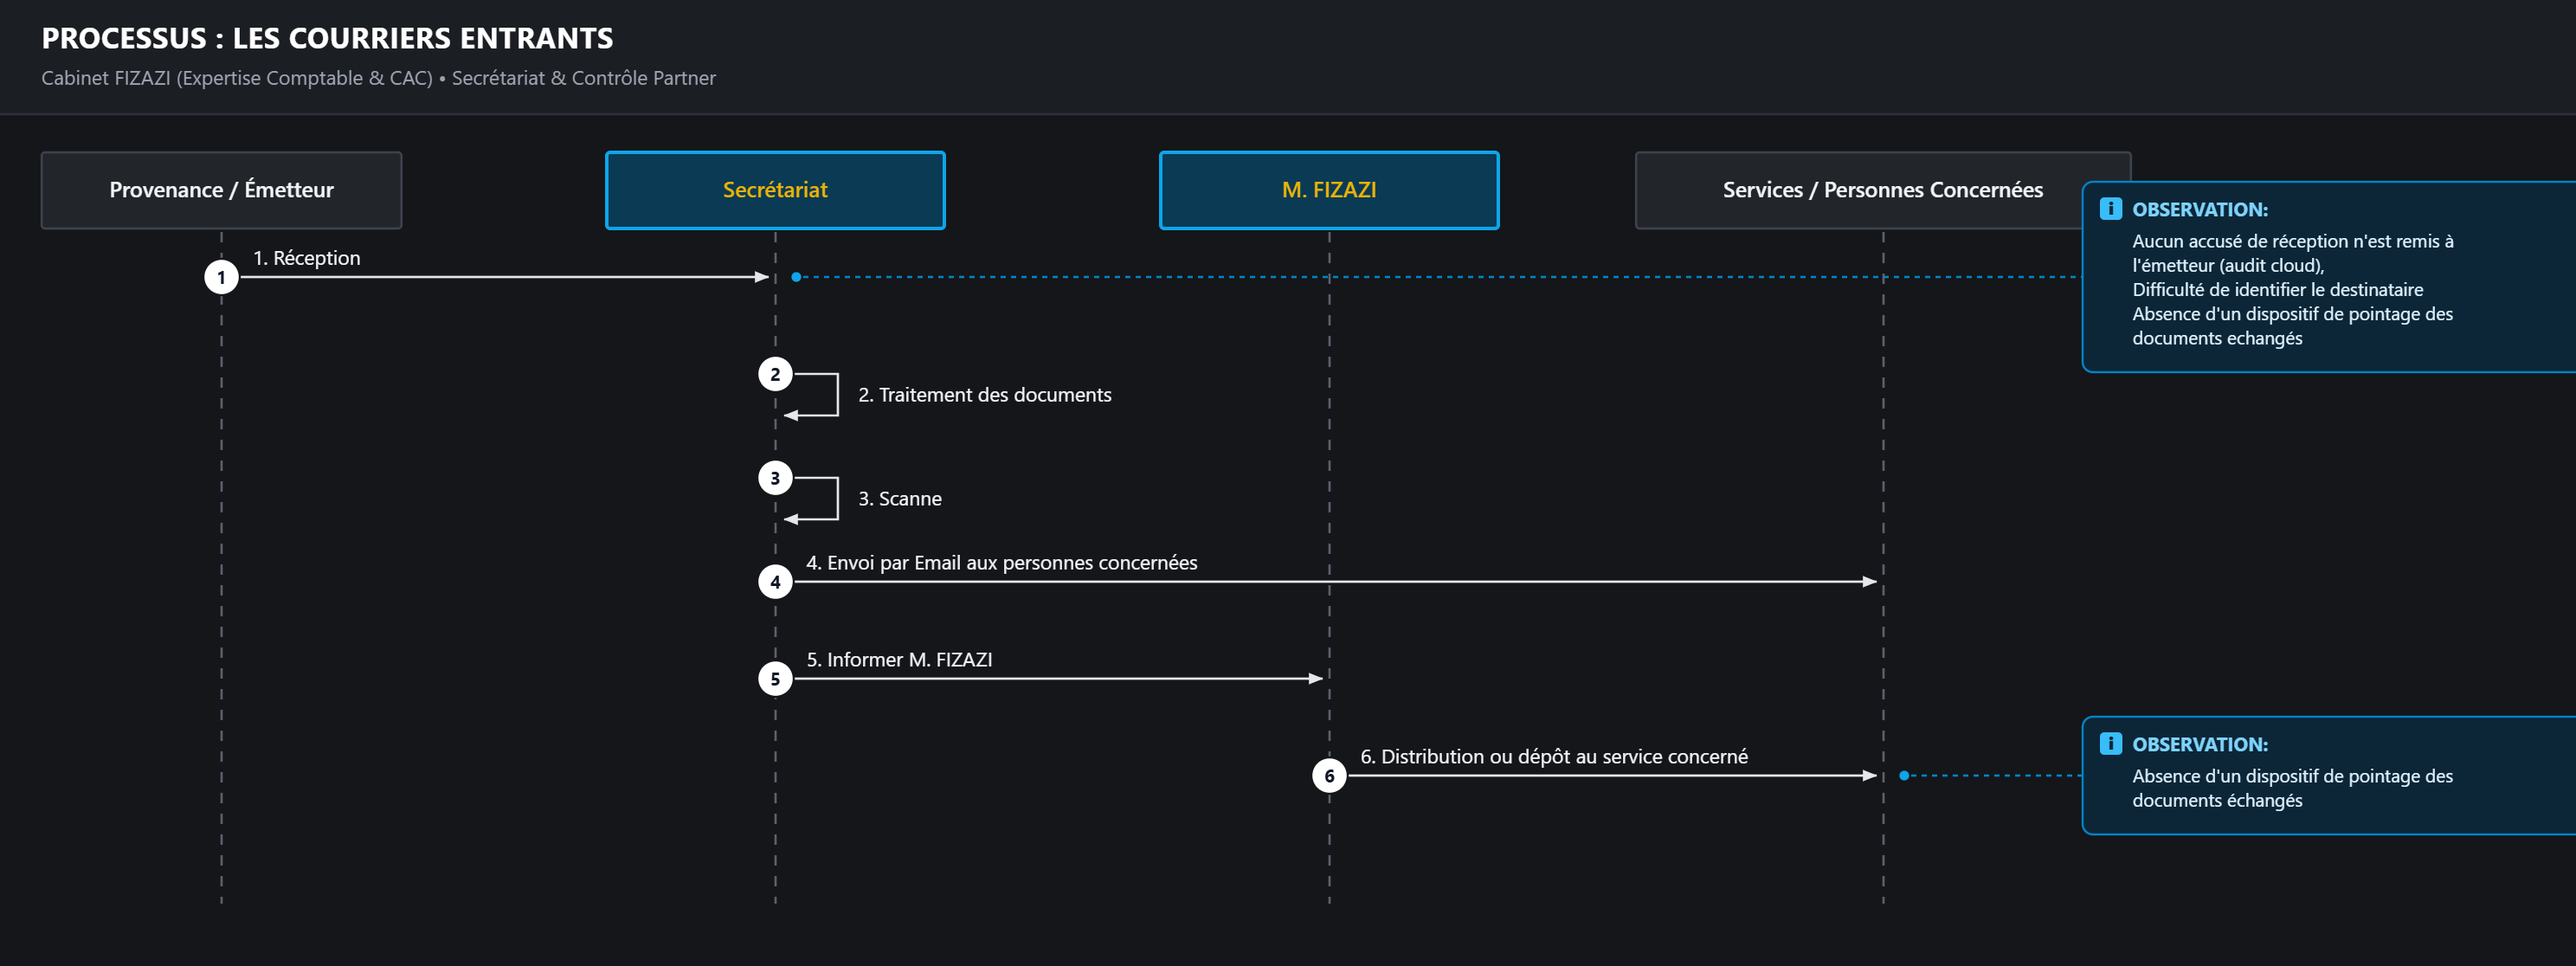
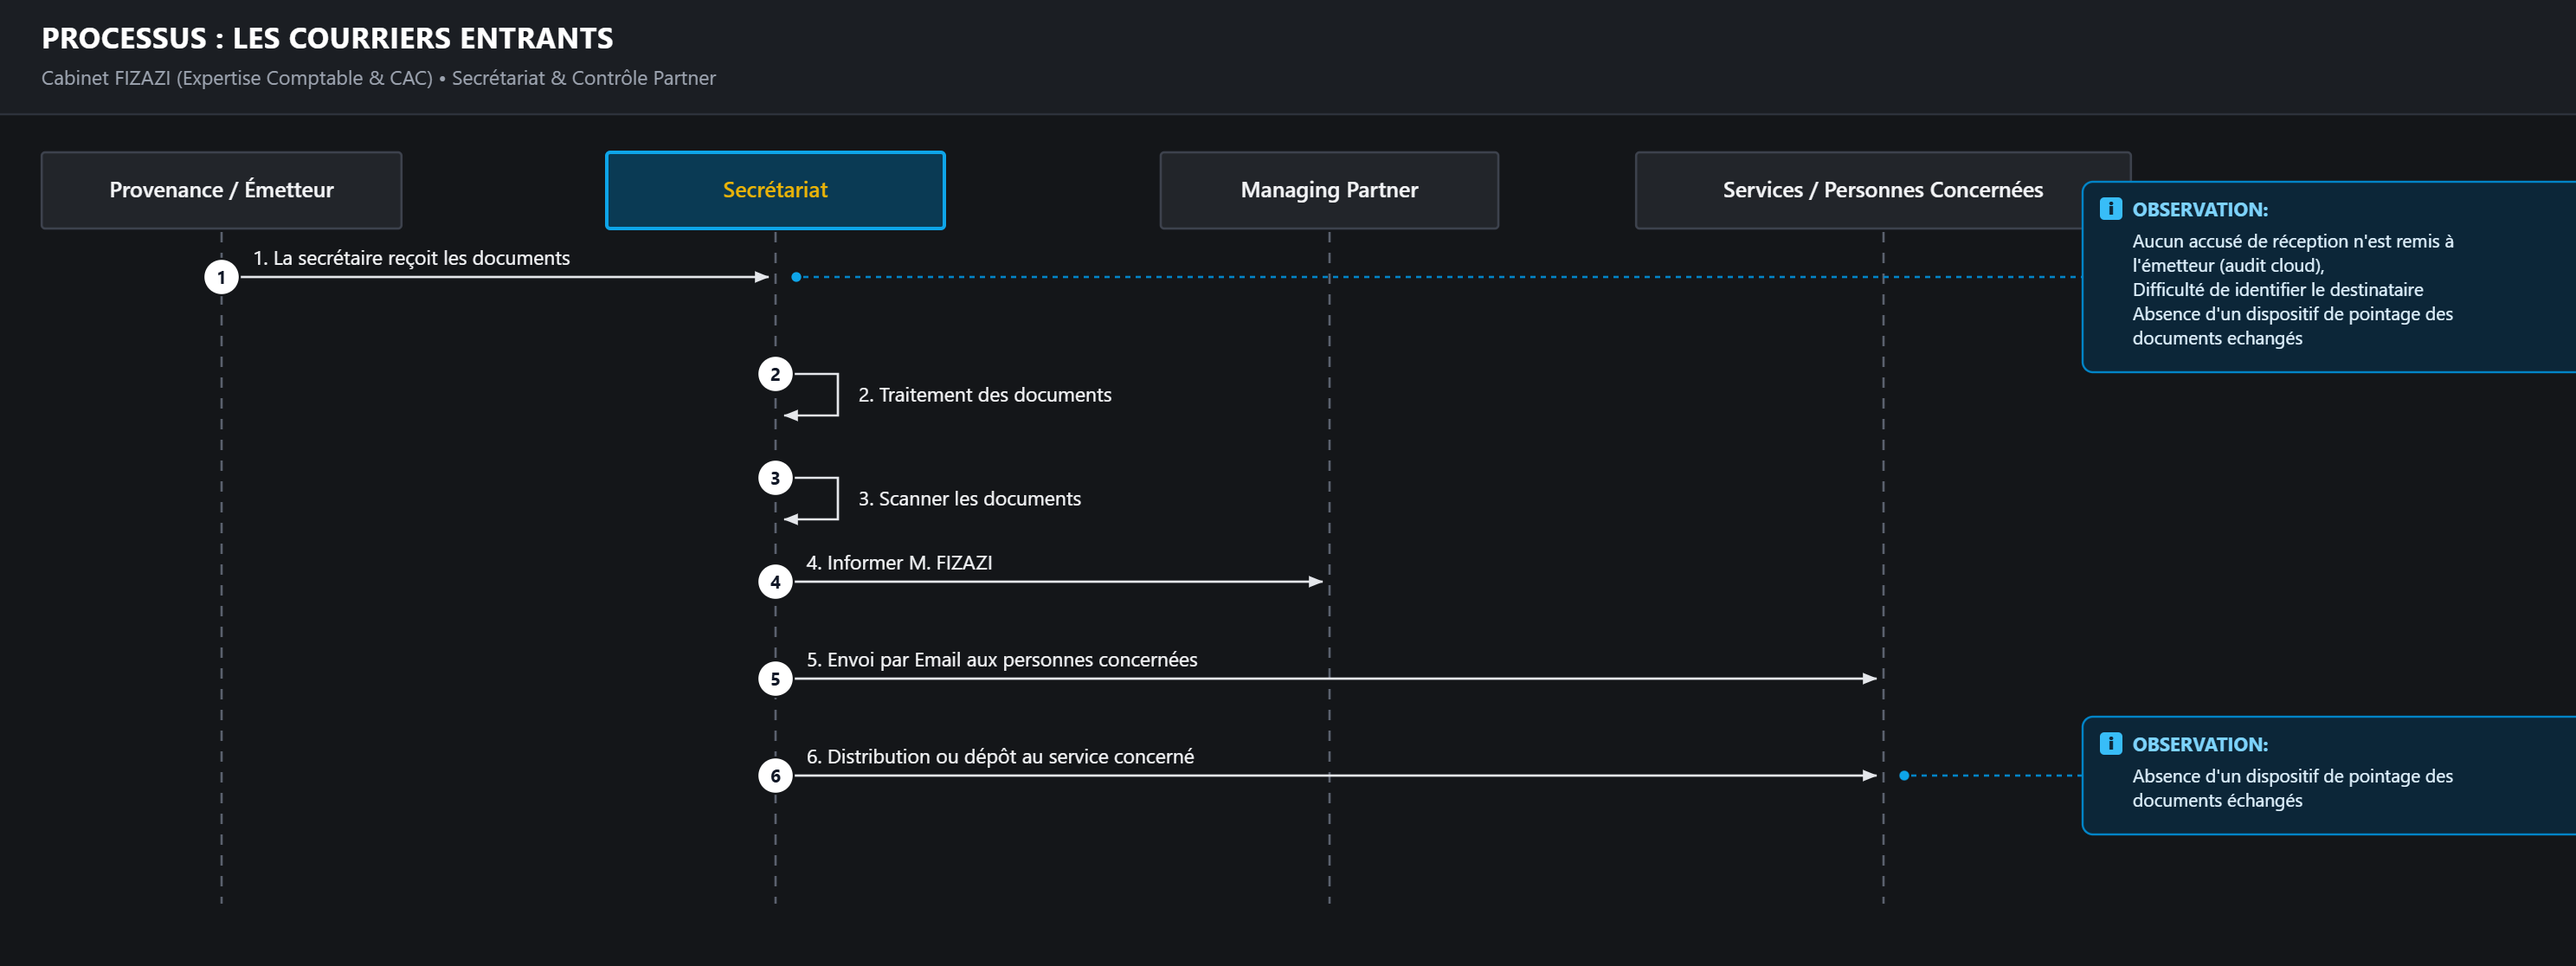
Mise a jour du processus des courriers entrants (nouveaux libelles, Managing Partner, observations et nouvelle capture PNG)

diff --git a/traitement_des_documents.html b/traitement_des_documents.html
@@ -760,8 +760,8 @@
         },
         actors: [
           { id: 'act_1', name: 'Provenance / Émetteur', type: 'box', highlight: false },
-          { id: 'act_2', name: 'Secrétariat (Fatima)', type: 'box', highlight: true },
-          { id: 'act_3', name: 'M. FIZAZI (Partner)', type: 'box', highlight: true },
+          { id: 'act_2', name: 'Secrétariat ', type: 'box', highlight: true },
+          { id: 'act_3', name: 'Managing Partner', type: 'box', highlight: false },
           { id: 'act_4', name: 'Services / Personnes Concernées', type: 'box', highlight: false }
         ],
         items: [
@@ -772,8 +772,13 @@
             to: 'act_2',
             lineType: 'solid',
             badge: '1',
-            label: '1. Réception',
-            observation: null
+            label: '1. La secrétaire reçoit les documents',
+            observation: {
+              enabled: true,
+              title: '',
+              detail: "Aucun accusé de réception n'est remis à l'émetteur (audit cloud),\nDifficulté de identifier le destinataire\nAbsence d'un dispositif de pointage des documents echangés",
+              alertType: 'Amélioration'
+            }
           },
           {
             id: 'stp_2',
@@ -792,13 +797,18 @@
             to: 'act_2',
             lineType: 'solid',
             badge: '3',
-            label: '3. Scanne',
-            observation: {
-              enabled: true,
-              title: 'Contrôle qualité & Résolution',
-              detail: 'Vérifier la lisibilité complète des pièces numérisées avant transmission électronique',
-              alertType: 'Amélioration'
-            }
+            label: '3. Scanner les documents',
+            observation: null
+          },
+          {
+            id: 'stp_5',
+            kind: 'step',
+            from: 'act_2',
+            to: 'act_3',
+            lineType: 'solid',
+            badge: '5',
+            label: '5. Informer M. FIZAZI',
+            observation: null
           },
           {
             id: 'stp_4',
@@ -811,35 +821,25 @@
             observation: null
           },
           {
-            id: 'stp_5',
-            kind: 'step',
-            from: 'act_2',
-            to: 'act_3',
-            lineType: 'solid',
-            badge: '5',
-            label: '5. Recontrôler par M. FIZAZI',
-            observation: {
-              enabled: true,
-              title: 'Validation & Visa Partner',
-              detail: 'Revue préalable de conformité par M. FIZAZI avant classement ou distribution',
-              alertType: 'Risque'
-            }
-          },
-          {
             id: 'stp_6',
             kind: 'step',
-            from: 'act_3',
+            from: 'act_2',
             to: 'act_4',
             lineType: 'solid',
             badge: '6',
             label: '6. Distribution ou dépôt au service concerné',
-            observation: null
+            observation: {
+              enabled: true,
+              title: '',
+              detail: "Absence d'un dispositif de pointage des documents échangés",
+              alertType: 'Amélioration'
+            }
           }
         ]
       };
     }
 
-    const STORAGE_KEY = 'uml_seq_courriers_entrants_v1';
+    const STORAGE_KEY = 'uml_seq_courriers_entrants_v2';
     let state = loadState() || getDefaultDiagramData();
     let selectedItemId = null;
     let currentZoom = 1.0;
